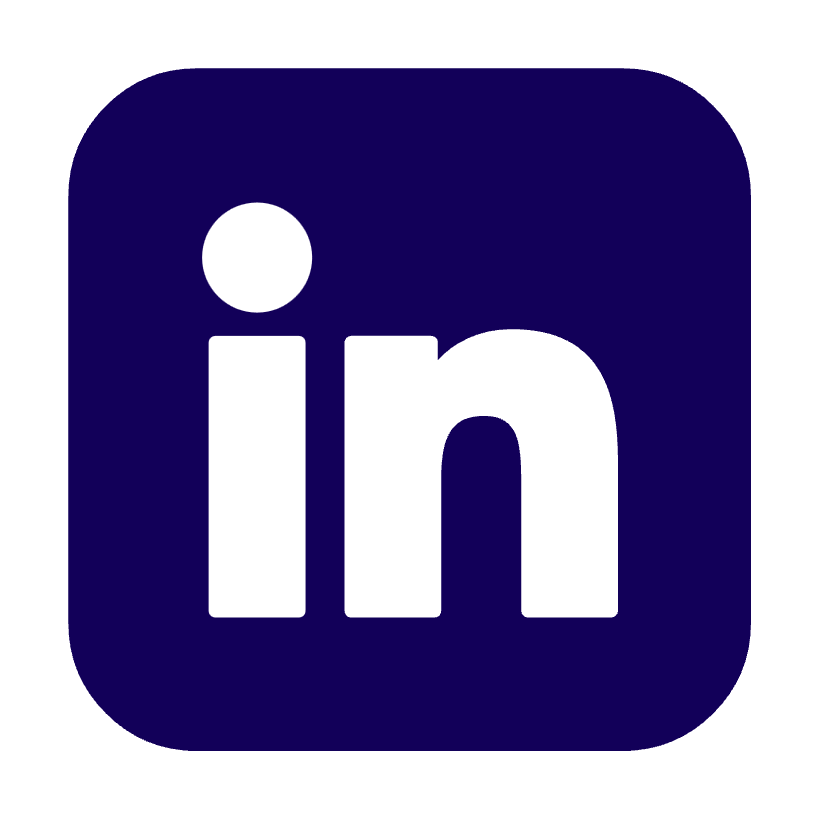
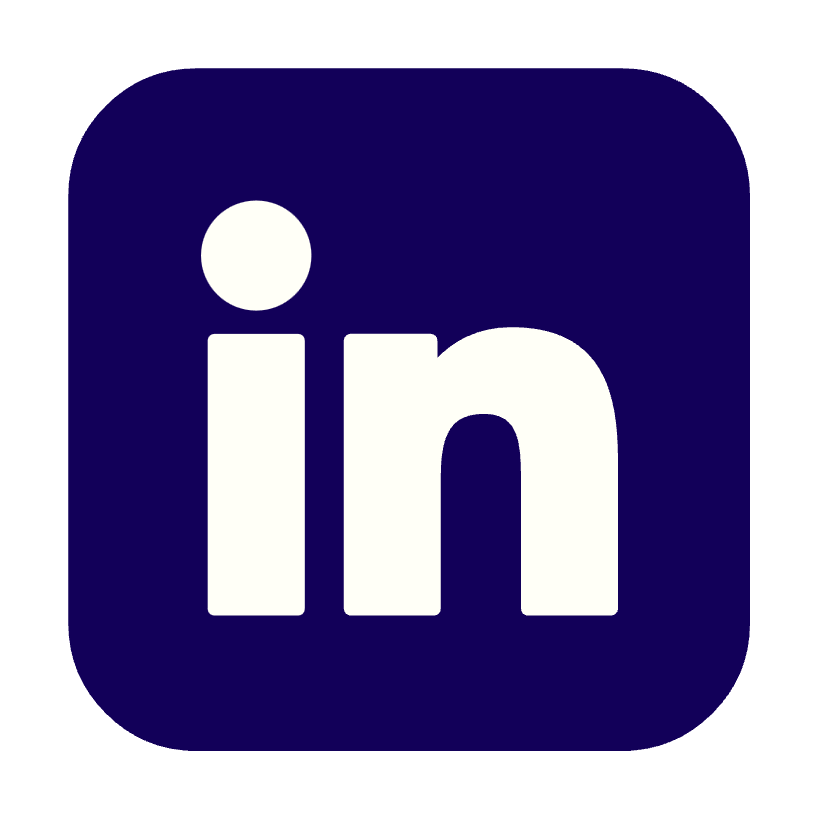
changed footer images, tried to make code structured

diff --git a/style.css b/style.css
@@ -62,8 +62,6 @@ li a {
     background-color: #120059;
 }
 
-
-
 /* main */
 main {
     width: 80%;
@@ -151,7 +149,6 @@ h1 {
 .cardcontainer {
     display: flex;
     align-items: center;
-    /* justify-content: center; */
     position: relative;
     overflow-x: scroll;
     margin: 0 auto;
@@ -161,7 +158,6 @@ h1 {
 .card {
     transition: 0.5s;
     width: 18rem;
-    /* height: 28rem; */
     margin: 1rem;
     background-color: #D7F0C8;
     border-radius: 1.25rem;
@@ -199,12 +195,6 @@ h1 {
     border-radius: 0;
 }
 
-.smallimage {
-    width: 5rem;
-    height: 5rem;
-    object-fit: cover;
-}
-
 .arrowbuttons {
     color: #D3EAFF;
     display: flex;
@@ -219,32 +209,6 @@ h1 {
 
 .left:hover, .right:hover {
     color: #bee0ff;
-}
-
-.projectlinkcontainer {
-    margin-top: 1rem;
-    width: 50%;
-    display: flex;
-}
-
-.projectlink {
-    background-color: #A18DF2;
-    color: #FFF;
-    border-radius: 1.25rem;
-    padding: 0.4rem 0;
-    margin: 0 0.4rem 0 0;
-    text-align: center;
-    width: 6rem;
-    transition: ease 100ms;
-}
-
-.projectlink a {
-    text-decoration: none;
-    color: #FFF;
-}
-
-.projectlink:hover {
-    background-color: #8c7adc;
 }
 
 /* css for card when large */
@@ -297,6 +261,33 @@ h1 {
 .large .projectlinkcontainer {
     display: flex;
 }
+
+.projectlinkcontainer {
+    margin-top: 1rem;
+    width: 50%;
+    display: flex;
+}
+
+.projectlink {
+    background-color: #A18DF2;
+    color: #FFF;
+    border-radius: 1.25rem;
+    padding: 0.4rem 0;
+    margin: 0 0.4rem 0 0;
+    text-align: center;
+    width: 6rem;
+    transition: ease 100ms;
+}
+
+.projectlink a {
+    text-decoration: none;
+    color: #FFF;
+}
+
+.projectlink:hover {
+    background-color: #8c7adc;
+}
+
 /* class to show more content */
 .show {
     display: block;
@@ -322,7 +313,6 @@ footer {
 }
 .ikon {
     width: 3.5rem;
-    color: #120059;
 }
 
 /* scrollbar */

diff --git a/index.html b/index.html
@@ -174,9 +174,7 @@
                             dolores perferendis perspiciatis. 
                         </p>
                         <div class="projectlinkcontainer hidden">
-                            
                             <div class="projectlink">Github</div>
-                            
                             <div class="projectlink">Website</div>
                         </div>
                     </div>
@@ -191,7 +189,7 @@
     </main>
     <footer>
         <a href="https://www.linkedin.com/in/moa-hedendahl-1958a4202/"><img class="ikon" src="./images/linkedin.png" alt=""></a>
-        <a href="https://github.com/moamoa07"><img class="ikon" src="./images/github.svg" alt=""></a>
+        <a href="https://github.com/moamoa07"><img class="ikon" src="./images/github.png" alt=""></a>
         <a href="mailto:moahedendahl@gmail.com"><img class="ikon" src="./images/mail.png" alt=""></a>
         <a href=""><img class="ikon" src="./images/cv.png" alt=""></a>
     </footer>

diff --git a/about.html b/about.html
@@ -66,14 +66,11 @@
                 </div>
             </div>
         </div>
-        <div class="asecondview">
-
-        </div>
     </main>
 
     <footer>
         <a href="https://www.linkedin.com/in/moa-hedendahl-1958a4202/"><img class="ikon" src="./images/linkedin.png" alt=""></a>
-        <a href="https://github.com/moamoa07"><img class="ikon" src="./images/github.svg" alt=""></a>
+        <a href="https://github.com/moamoa07"><img class="ikon" src="./images/github.png" alt=""></a>
         <a href="mailto:moahedendahl@gmail.com"><img class="ikon" src="./images/mail.png" alt=""></a>
         <a href=""><img class="ikon" src="./images/cv.png" alt=""></a>
     </footer>

diff --git a/portfolio.html b/portfolio.html
@@ -127,13 +127,11 @@
                 </div>
             </div>
         </div>
-        
-            
     </main>
 
     <footer>
         <a href="https://www.linkedin.com/in/moa-hedendahl-1958a4202/"><img class="ikon" src="./images/linkedin.png" alt=""></a>
-        <a href="https://github.com/moamoa07"><img class="ikon" src="./images/github.svg" alt=""></a>
+        <a href="https://github.com/moamoa07"><img class="ikon" src="./images/github.png" alt=""></a>
         <a href="mailto:moahedendahl@gmail.com"><img class="ikon" src="./images/mail.png" alt=""></a>
         <a href=""><img class="ikon" src="./images/cv.png" alt=""></a>
     </footer>

diff --git a/portfolio.css b/portfolio.css
@@ -24,7 +24,6 @@
     display: flex;
     background-color: #E2D1FF;
     border-radius: 1.25rem;
-    /* height: 32rem; */
     margin-top: 2rem;
 }
 
@@ -61,13 +60,6 @@
 .ptextsubject {
     font-size: 0.8rem;
     margin: 0.4rem 0;
-}
-
-.psecondview {
-    /* height: 100vh; */
-    display: flex;
-    justify-content: center;
-    align-items: center;
 }
 
 .ppflower {

diff --git a/burger.js b/burger.js
@@ -2,7 +2,6 @@
  * Function for hamburger menu in mobile view
  */
 function setupBurgerMenu() {
-    // hamburger menu
     const hamburger = document.getElementById("burger");
     const navMenu = document.getElementById("navmenu");
 

diff --git a/mediaquery.css b/mediaquery.css
@@ -234,7 +234,6 @@
     .projectcontainer {
         flex-direction: column;
         margin: 1rem;
-        /* height: 38rem; */
     }
 
     .showproject {
